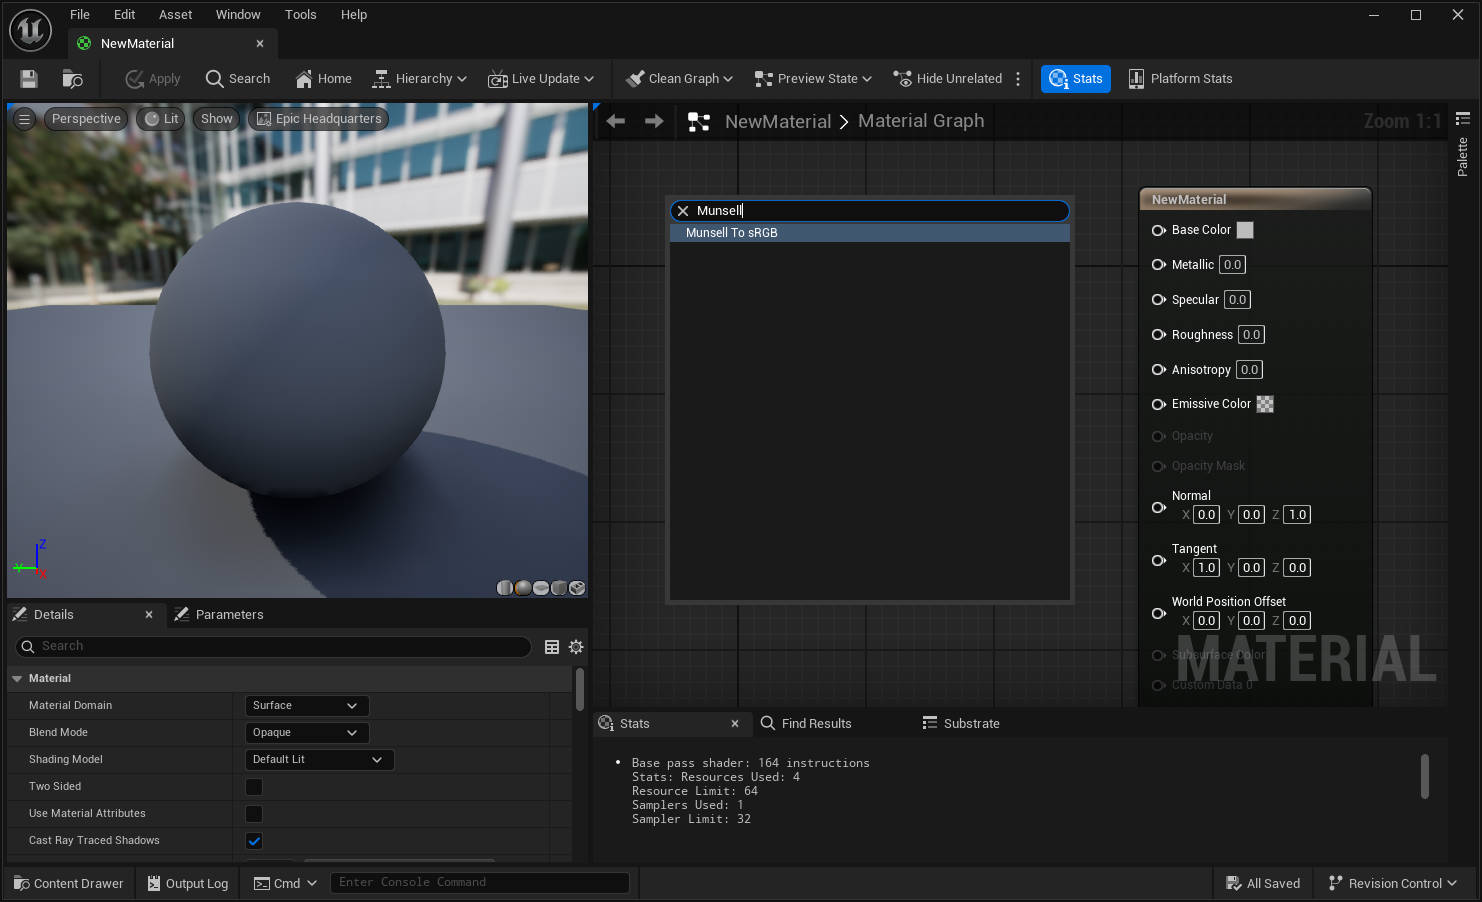
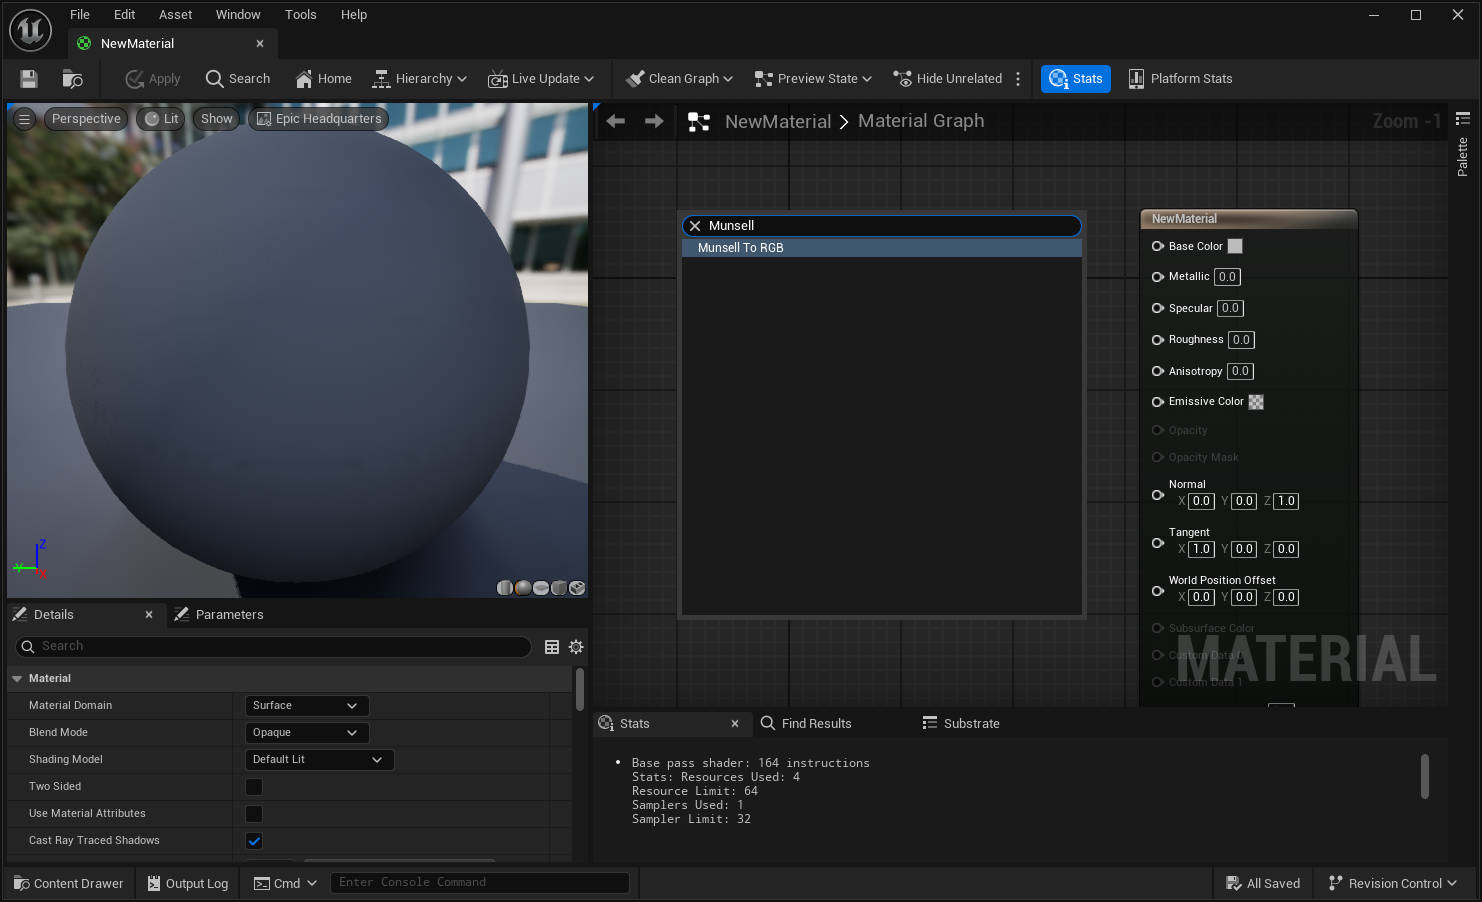
Munsell To RGB

Changed region(s): [[0.031, 0.1242, 0.4035, 0.6829], [0.4345, 0.1863, 0.9312, 0.714]]

diff --git a/MunsellToRGB/Source/MunsellToRGB/Public/MunsellToRGB_MEN.h b/MunsellToRGB/Source/MunsellToRGB/Public/MunsellToRGB_MEN.h
@@ -12,7 +12,7 @@
 /**
  * 
  */
-UCLASS(hidecategories = Object, meta = (DisplayName = "Munsell To sRGB"))
+UCLASS(hidecategories = Object, meta = (DisplayName = "Munsell To RGB"))
 class MUNSELLTORGB_API
 UMunsellToRGB_MEN : public UMaterialExpression
 {
